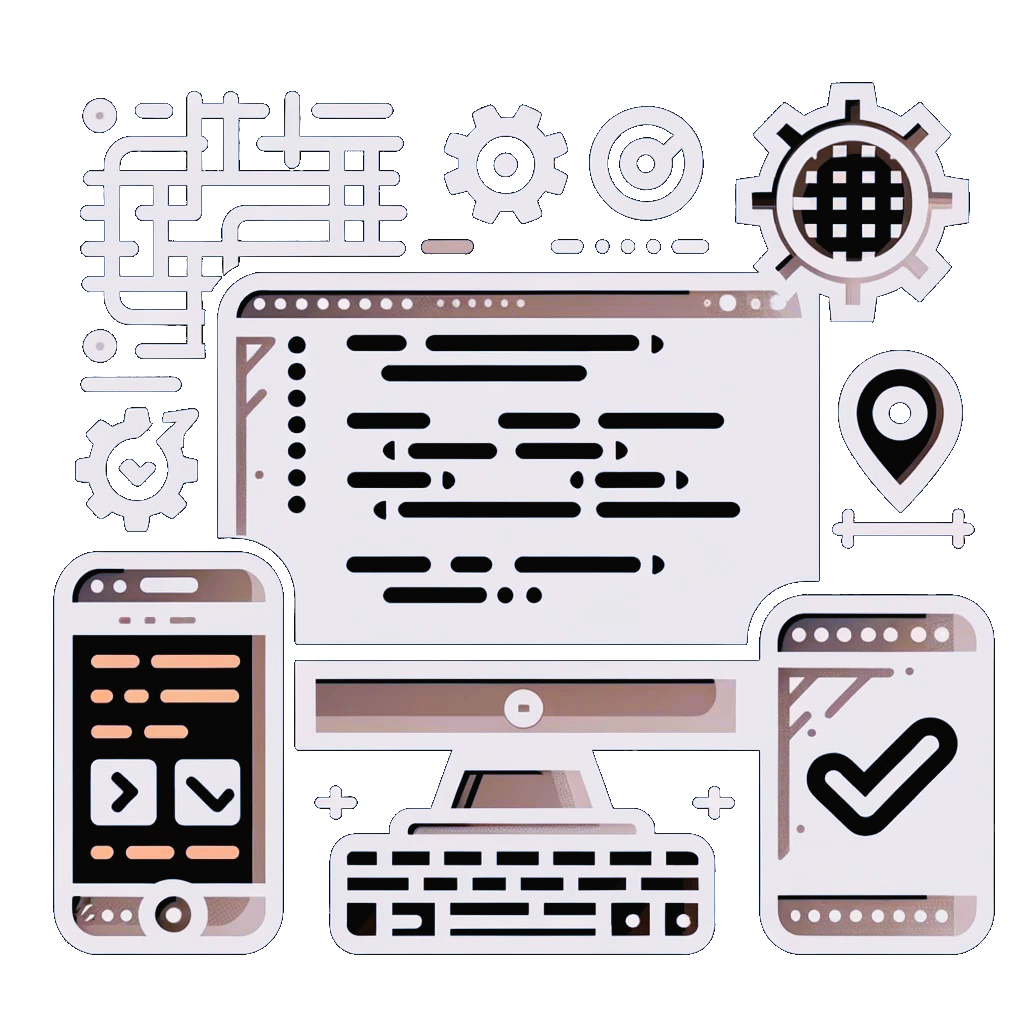
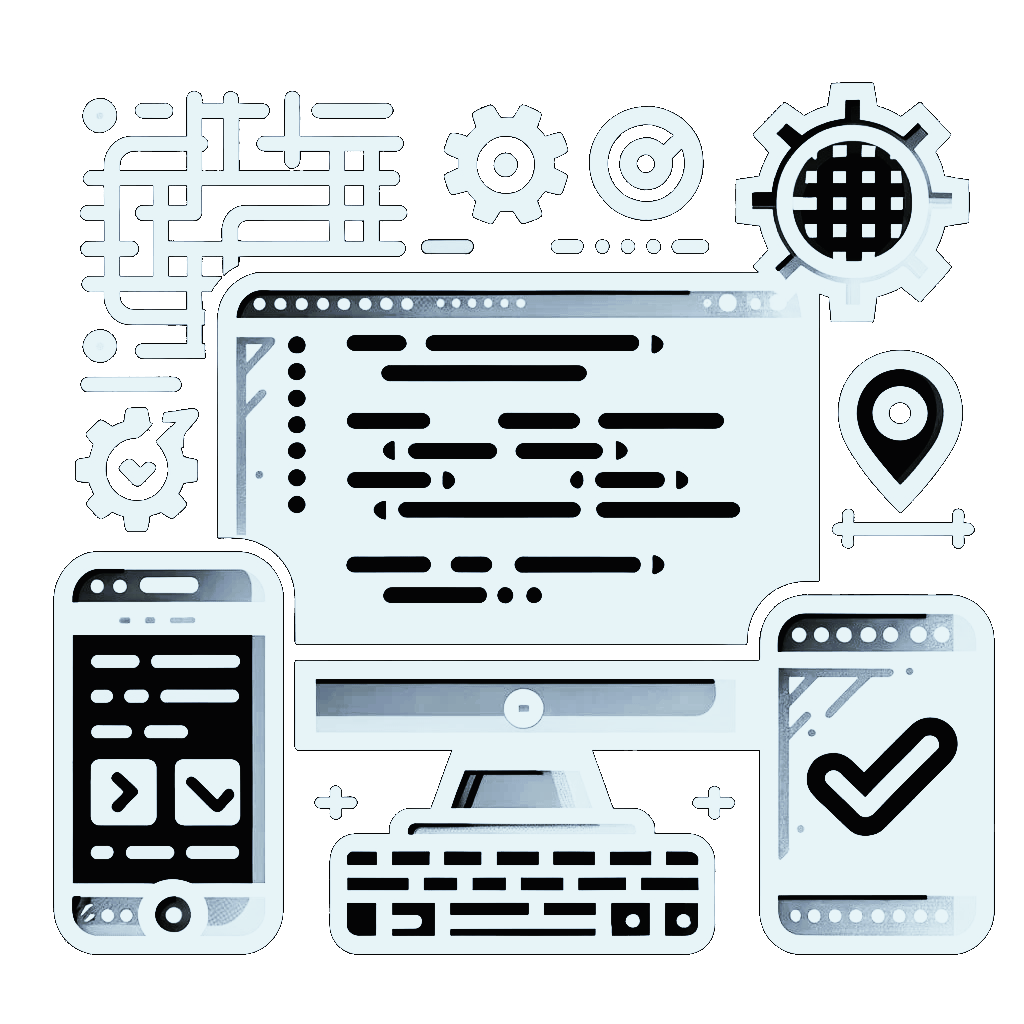
Update About page with dark mode image

diff --git a/app/about/page.tsx b/app/about/page.tsx
@@ -19,7 +19,14 @@ export default function About() {
               alt="developmentImg"
               width={200}
               height={200}
-              className="select-none min-w-[200px] opacity-10 md:opacity-100" // Adjust opacity as needed
+              className="select-none min-w-[200px] opacity-10 md:opacity-100 dark:hidden" // Adjust opacity as needed
+            />
+            <Image
+              src="/images/developmentImgDark.png"
+              alt="developmentImg"
+              width={200}
+              height={200}
+              className="select-none min-w-[200px] opacity-10 md:opacity-100 hidden dark:block" // Adjust opacity as needed
             />
           </div>
 
